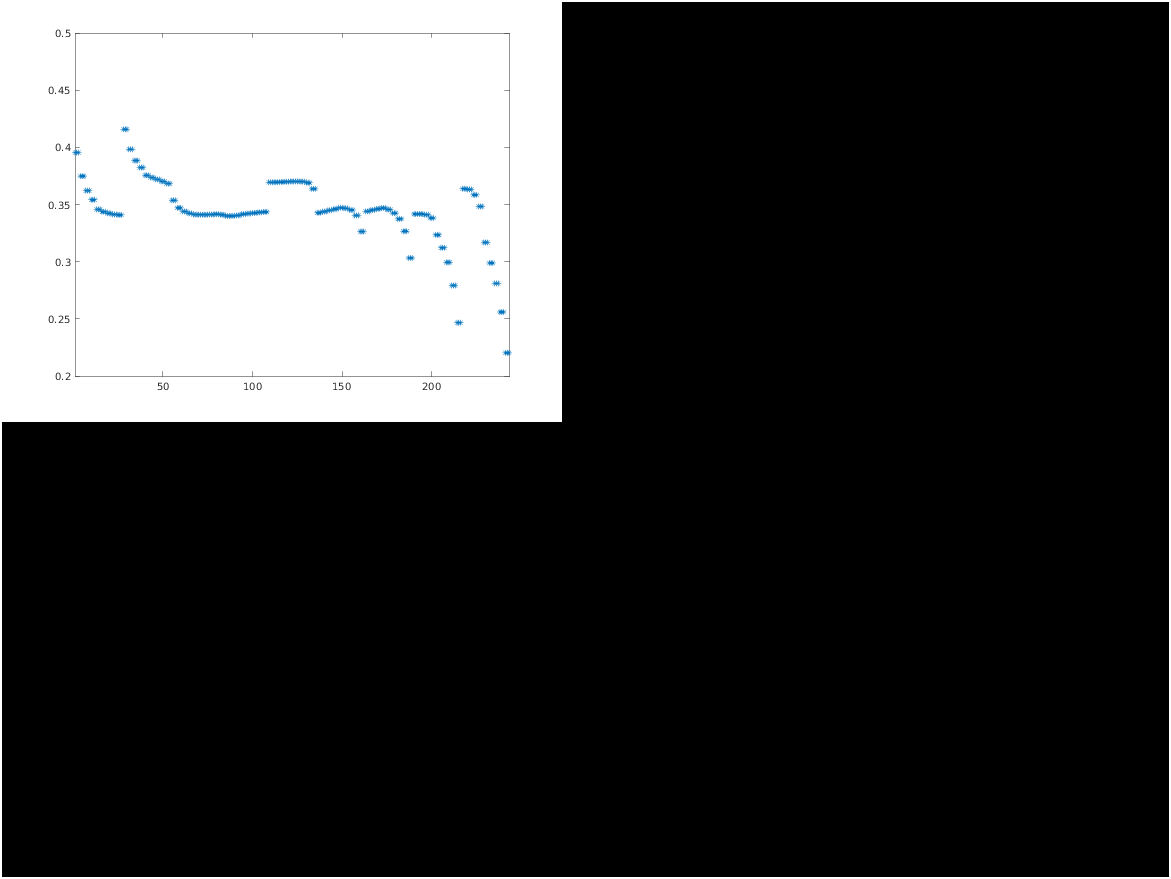
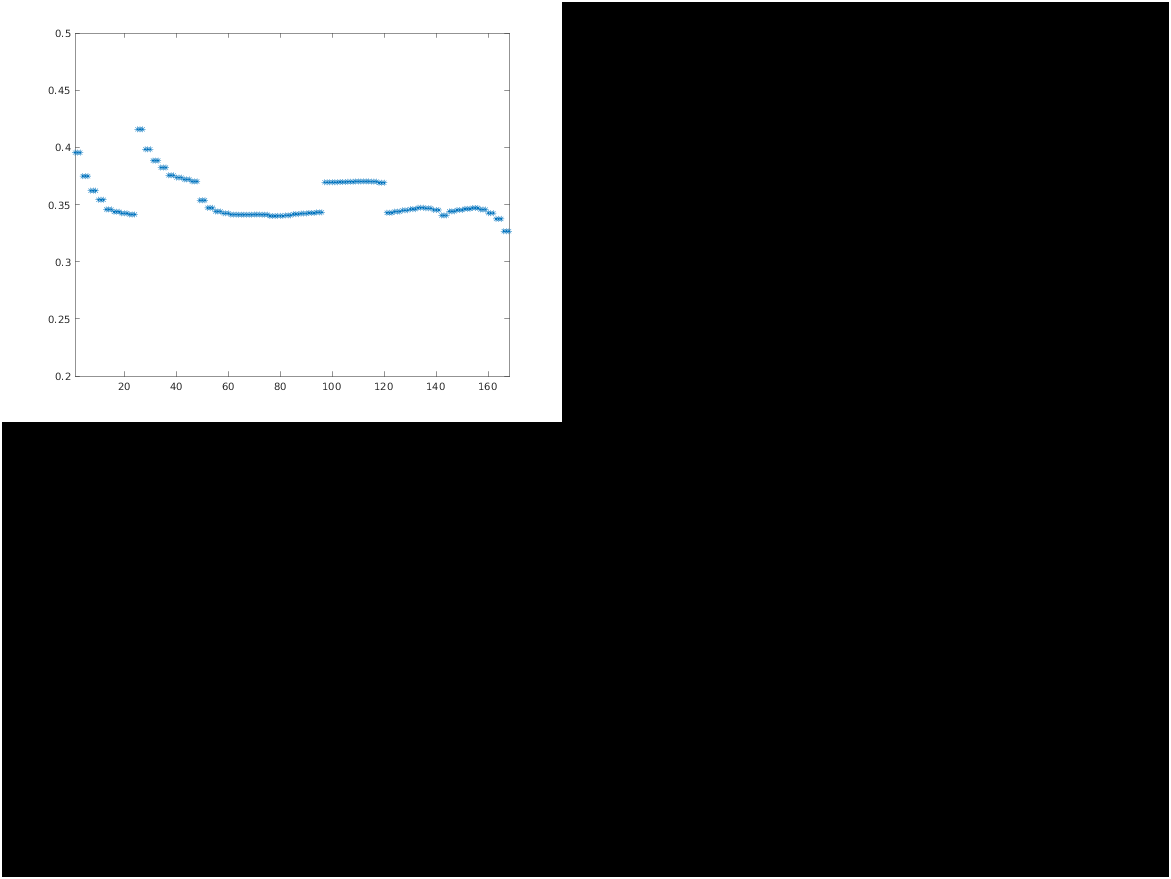
imgs

diff --git a/SE_Stokes_run/SE3P_Stokes/amp_param.m b/SE_Stokes_run/SE3P_Stokes/amp_param.m
@@ -8,8 +8,8 @@ opt.M = [M0,M0,M0];
 opt.P = 32;
 opt.window = 'gaussian';
 N = 100;
-LL = [1,2,2.5,3,4,5,6,8,10];
-xx = [8,10,12,14,18,20,22,25,30];
+LL = [1,2,2.5,3,4,5,6];
+xx = [8,10,12,14,18,20,22,25];
 MA = [];
 %opt.box = [1,1,1];
 %[x,f] =SE_charged_system(N,opt.box,'vector');
